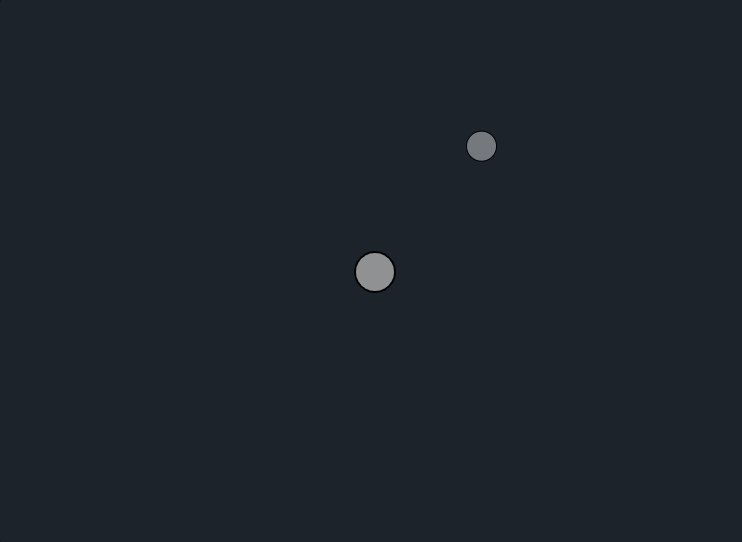
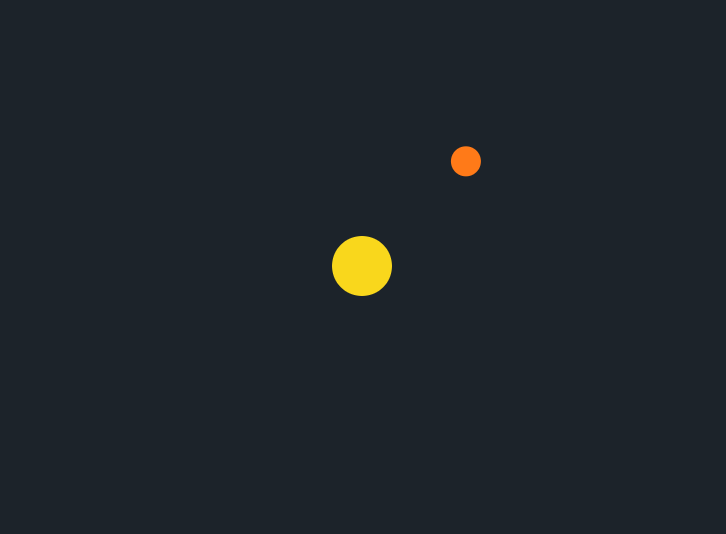
Added pendulum simulation

Changed region(s): [[0.4545, 0.4195, 0.5455, 0.5693], [0.6061, 0.2397, 0.6667, 0.3296]]

diff --git a/src/physics/pendulum/pendulum.js b/src/physics/pendulum/pendulum.js
@@ -1,0 +1,104 @@
+// The Nature of Code
+// Daniel Shiffman
+// http://natureofcode.com
+
+import { color } from "../colors";
+
+// Pendulum
+
+// A Simple Pendulum Class
+// Includes functionality for user can click and drag the pendulum
+
+// This constructor could be improved to allow a greater variety of pendulums
+class Pendulum {
+    constructor(x, y, r) {
+        // Fill all variables
+        this.p = window.p;
+        this.p5 = window.p.constructor;
+        this.origin = this.p.createVector(x, y);
+        this.position = this.p.createVector();
+        this.r = r;
+        this.angle = this.p.PI / 4;
+
+        this.aVelocity = 0.0;
+        this.aAcceleration = 0.0;
+        this.damping = 0.995; // Arbitrary damping
+        this.ballr = 48.0; // Arbitrary ball radius
+
+        this.dragging = false;
+    }
+
+    // Function to update position
+    update() {
+        // As long as we aren't dragging the pendulum, let it swing!
+        if (!this.dragging) {
+            let gravity = 0.4; // Arbitrary constant
+            this.aAcceleration =
+                ((-1 * gravity) / this.r) * this.p.sin(this.angle); // Calculate acceleration (see: http://www.myphysicslab.com/pendulum1.html)
+            this.aVelocity += this.aAcceleration; // Increment velocity
+            this.aVelocity *= this.damping; // Arbitrary damping
+            this.angle += this.aVelocity; // Increment angle
+        }
+    }
+
+    display() {
+        this.position.set(
+            this.r * this.p.sin(this.angle),
+            this.r * this.p.cos(this.angle),
+            0
+        ); // Polar to cartesian conversion
+        this.position.add(this.origin); // Make sure the position is relative to the pendulum's origin
+
+        this.p.stroke(255);
+        this.p.strokeWeight(2);
+        // Draw the arm
+        this.p.line(
+            this.origin.x,
+            this.origin.y,
+            this.position.x,
+            this.position.y
+        );
+        this.p.ellipseMode(this.p.CENTER);
+        this.p.fill(color);
+
+        if (this.dragging) this.p.fill(color);
+        // Draw the ball
+        this.p.ellipse(
+            this.position.x,
+            this.position.y,
+            this.ballr,
+            this.ballr
+        );
+    }
+
+    // The methods below are for mouse interaction
+
+    // This checks to see if we clicked on the pendulum ball
+    clicked(mx, my) {
+        let d = this.p.dist(mx, my, this.position.x, this.position.y);
+        if (d < this.ballr) {
+            this.dragging = true;
+        }
+    }
+
+    // This tells us we are not longer clicking on the ball
+    stopDragging() {
+        this.aVelocity = 0; // No velocity once you let go
+        this.dragging = false;
+    }
+
+    drag() {
+        // If we are draging the ball, we calculate the angle between the
+        // pendulum origin and mouse position
+        // we assign that angle to the pendulum
+        if (this.dragging) {
+            let diff = this.p5.Vector.sub(
+                this.origin,
+                this.p.createVector(this.p.mouseX, this.p.mouseY)
+            ); // Difference between 2 points
+            this.angle = this.p.atan2(-1 * diff.y, diff.x) - this.p.radians(90); // Angle relative to vertical axis
+        }
+    }
+}
+
+export default Pendulum;

diff --git a/src/physics/pendulum/main.js b/src/physics/pendulum/main.js
@@ -1,0 +1,43 @@
+import React from "react";
+import { ReactP5Wrapper } from "react-p5-wrapper";
+import { backgroundColor } from "../colors";
+import Pendulum from "./pendulum";
+
+let pendulum;
+
+const sketch = (p5) => {
+    let lineLnegth, speed;
+    p5.updateWithProps = (props) => {
+        console.log(props.state);
+        lineLnegth = props.state[0];
+        speed = props.state[1];
+    };
+
+    p5.setup = () => {
+        window.p = p5;
+        p5.createCanvas(750, 550);
+        pendulum = new Pendulum(p5.width / 2, 0, lineLnegth);
+    };
+
+    p5.draw = () => {
+        pendulum.r = lineLnegth;
+        p5.background(backgroundColor);
+        pendulum.update();
+        pendulum.drag(); // for user interaction
+        pendulum.display();
+    };
+
+    p5.mousePressed = () => {
+        pendulum.clicked(p5.mouseX, p5.mouseY);
+    };
+
+    p5.mouseReleased = () => {
+        pendulum.stopDragging();
+    };
+};
+
+const Main = ({ state }) => {
+    return <ReactP5Wrapper sketch={sketch} state={state} />;
+};
+
+export default Main;

diff --git a/src/items.js b/src/items.js
@@ -5,11 +5,25 @@ const items = [
         name: "Gravitational Attraction",
         path: "gravitational-attraction/main",
         grade: "C-Core",
+        image: "ga.png",
         props: [
-            { id: 1, min: 0.1, max: 5.1, step: 0.5, name: "Gravity" },
+            { id: 1, min: 0.1, max: 5, step: 0.1, name: "Gravity" },
             { id: 2, min: 30, max: 100, step: 10, name: "Planet count" },
         ],
         controls: { 0: 0.1, 1: 30 },
+    },
+    {
+        id: "2",
+        slug: "pendulum",
+        name: "Pendulum",
+        path: "pendulum/main",
+        grade: "C-Core",
+        image: "pendulum.png",
+        props: [
+            { id: 1, min: 10, max: 500, step: 10, name: "Line Length" },
+            { id: 2, min: 30, max: 100, step: 10, name: "Speed" },
+        ],
+        controls: { 0: 170, 1: 30 },
     },
 ];
 

diff --git a/src/components/collection/collection-card.js b/src/components/collection/collection-card.js
@@ -2,11 +2,23 @@ import React from "react";
 import { Link } from "react-router-dom";
 import img from "../../images/collections/ga.png";
 
+function importAll(r) {
+    let images = {};
+    r.keys().map((item, index) => {
+        images[item.replace("./", "")] = r(item);
+    });
+    return images;
+}
+
+const images = importAll(
+    require.context("../../images/collections", false, /\.(png|jpe?g|svg)$/)
+);
+
 const CollectionCard = ({ collection }) => {
     return (
         <Link to={`/visualize/${collection.slug}`} state={collection.id}>
             <div className="collection">
-                <img src={img} alt="collection-img" />
+                <img src={images[collection.image]} alt="collection-img" />
                 <div className="info">
                     <p className="truncate">{collection.name}</p>
                 </div>

diff --git a/src/components/visualization/visualization.js b/src/components/visualization/visualization.js
@@ -14,9 +14,13 @@ const Visualization = () => {
 
     useEffect(() => {
         let ranges = document.querySelectorAll(".range");
-        Array.from(ranges).map((range) => {
-            range.style.background =
-                "linear-gradient(to right, #2c5bd1 0%, #2c5bd1 0%, #434b5266 0%, #434b5266 100%)";
+        Array.from(ranges).map((range, i) => {
+            let percentage =
+                visualization.props[i].min == visualization.controls[i]
+                    ? 0
+                    : 100 /
+                      (visualization.props[i].max / visualization.controls[i]);
+            range.style.background = `linear-gradient(to right, #2c5bd1 0%, #2c5bd1 ${percentage}%, #434b5266 ${percentage}%, #434b5266 100%)`;
 
             range.oninput = () => {
                 let value =

diff --git a/src/physics/gravitational-attraction/main.js b/src/physics/gravitational-attraction/main.js
@@ -2,6 +2,7 @@ import React from "react";
 import { ReactP5Wrapper } from "react-p5-wrapper";
 import Attractor from "./attractor";
 import Planet from "./planet";
+import { backgroundColor } from "../colors";
 
 var planet, attractor, attraction;
 
@@ -24,7 +25,7 @@ const sketch = (p5) => {
     p5.draw = () => {
         attractor.mass = masse;
         attractor.G = gravity;
-        p5.background("#1c232a");
+        p5.background(backgroundColor);
 
         attraction = attractor.attract(planet);
         planet.applyForce(attraction);

diff --git a/src/components/collection/collection.js b/src/components/collection/collection.js
@@ -47,8 +47,8 @@ const Collection = () => {
                     ))
                 ) : (
                     <p className="sorry-msg">
-                        There is no collection yet, please come back later for
-                        new updates !
+                        There is no collection here yet, please come back later
+                        for new updates !
                     </p>
                 )}
             </div>

diff --git a/src/physics/gravitational-attraction/attractor.js b/src/physics/gravitational-attraction/attractor.js
@@ -1,3 +1,5 @@
+import { mainObjColor } from "../colors";
+
 class Attractor {
     constructor(g, m) {
         this.G = g;
@@ -23,7 +25,7 @@ class Attractor {
 
     display() {
         this.p.strokeWeight(0);
-        this.p.fill("#f9d71c");
+        this.p.fill(mainObjColor);
         this.p.ellipse(
             this.position.x,
             this.position.y,

diff --git a/src/components/home/main.js b/src/components/home/main.js
@@ -13,7 +13,7 @@ const Main = () => {
                 </span>
                 <p className="description">
                     Learning by visualising is the quickest, most effective way
-                    <br /> of learning physics
+                    <br /> to learn physics
                 </p>
             </h1>
 

diff --git a/src/physics/colors.js b/src/physics/colors.js
@@ -7,6 +7,8 @@ const palette = [
     "#61C0FF",
 ];
 
+const backgroundColor = "#1c232a";
+const mainObjColor = "#f9d71c";
 const color = palette[Math.floor(Math.random() * palette.length)];
 
-export default color;
+export { color, backgroundColor, mainObjColor };

diff --git a/src/static/all.css b/src/static/all.css
@@ -471,6 +471,7 @@ header nav {
 
 .collections .collection img {
     width: 100%;
+    height: 263px;
     max-width: 100%;
     border-radius: 0.5rem;
 }

diff --git a/src/physics/gravitational-attraction/planet.js b/src/physics/gravitational-attraction/planet.js
@@ -1,4 +1,4 @@
-import color from "../colors";
+import { color } from "../colors";
 
 class Planet {
     constructor(x, y, m) {
